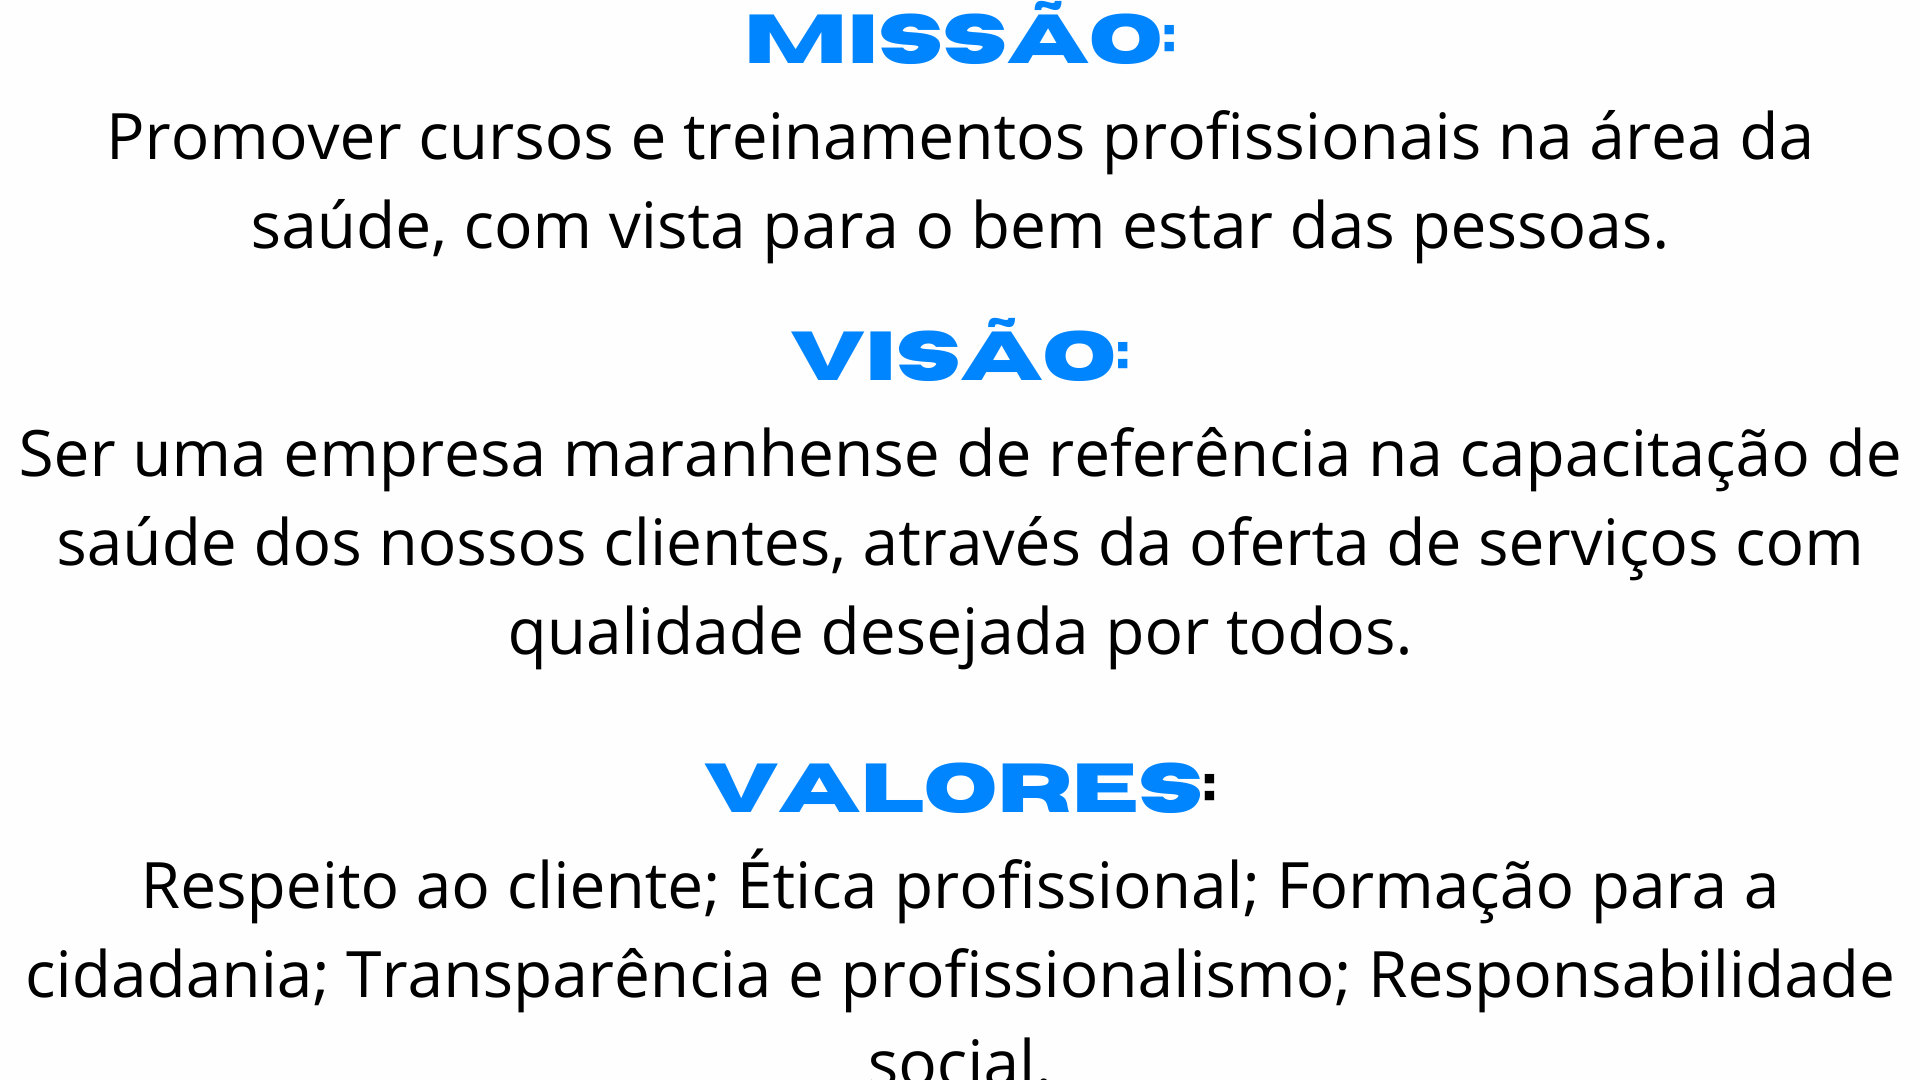
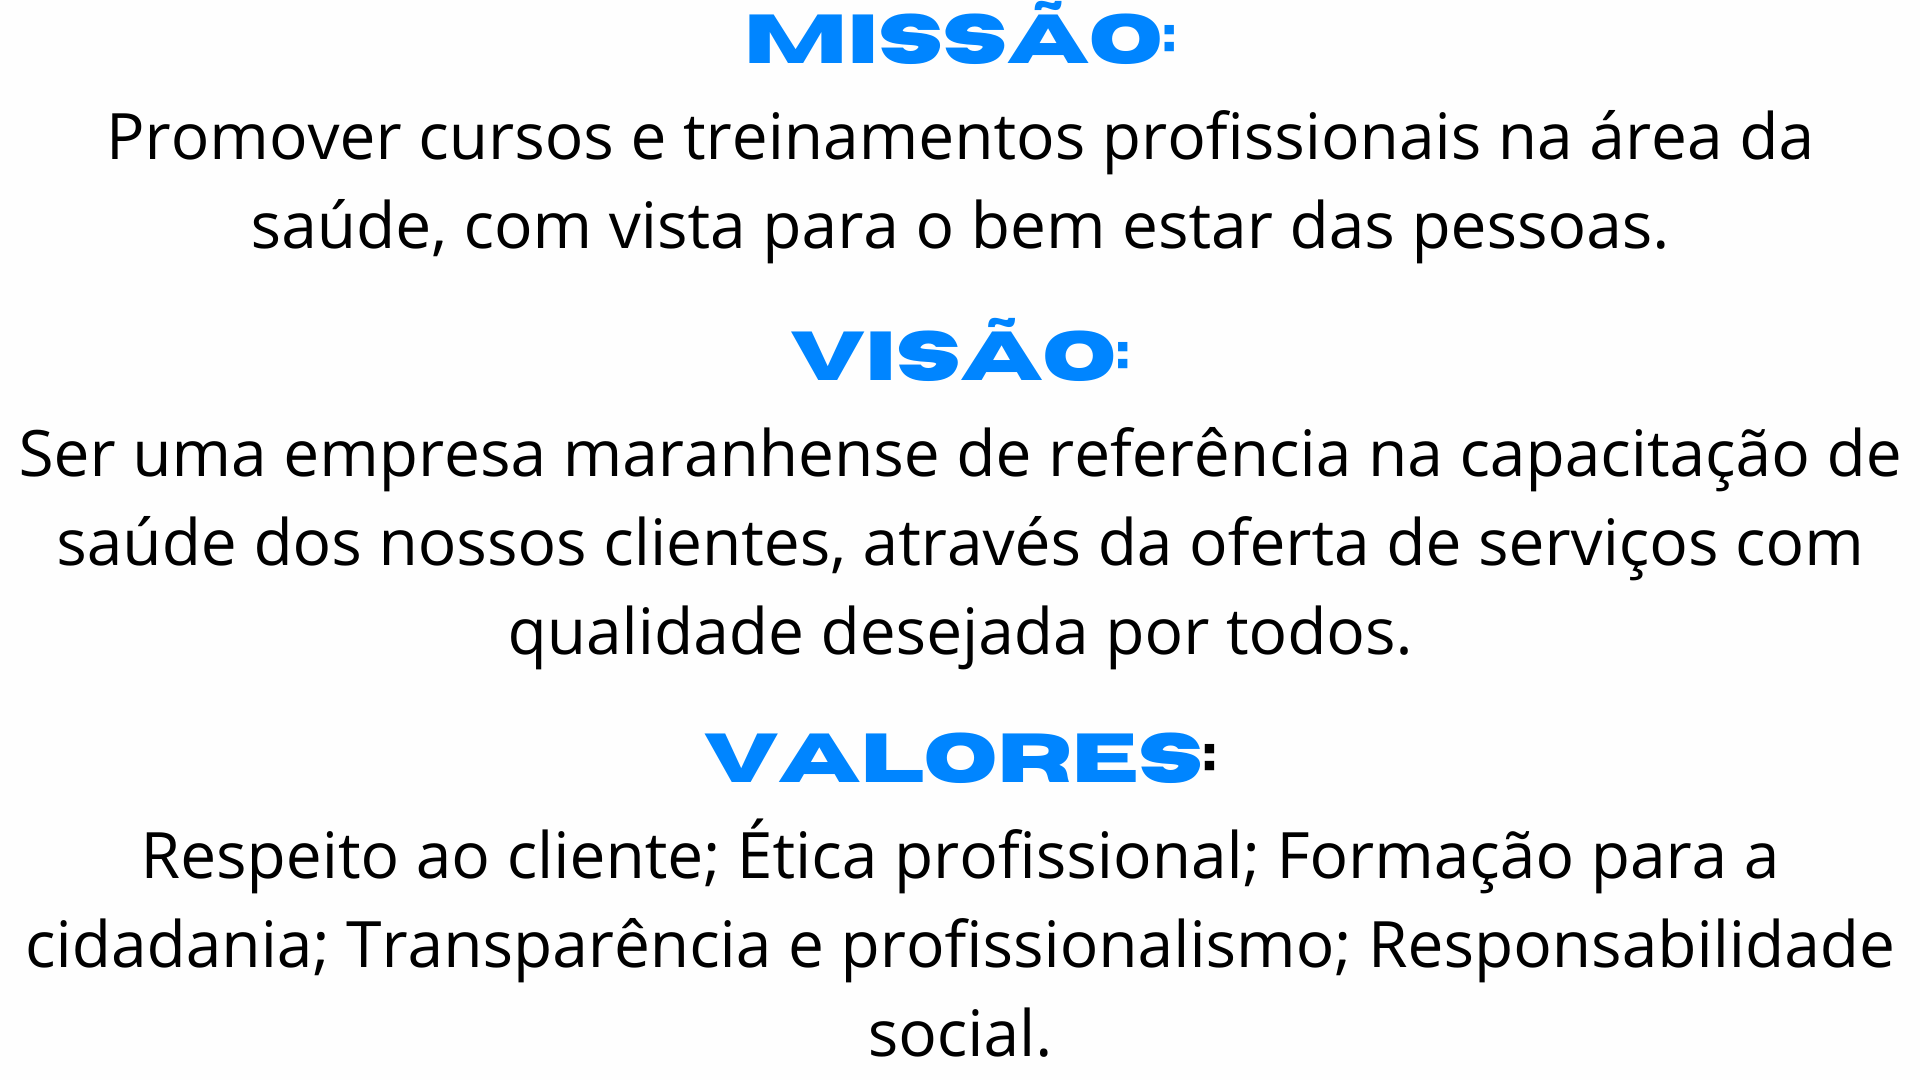
alteração de imagem e texto

Changed region(s): [[0.0, 0.6722, 1.0, 1.0]]

diff --git a/index.html b/index.html
@@ -18,6 +18,7 @@
         </label>
         <label>
             <a style="background:none;" id="logo" href=""><img src="logo.jpg"></a>
+            <p>Educa+</p>
         </label>
         <ul class="h1">    
             <li><a href="#inftxt">SOBRE</a></li>      
@@ -35,19 +36,9 @@
             os processos de imunização utilizados na prevenção do COVID 19. 
         </p>
         <img src="estudanteMascara.jpg">
-        <img src="missão e valor.jpg">
+        <img src="missão e valor.png">
         <div id="infval">
-            <p style="margin: 0 10px 0 15px;">
-                <span style="color: blue;font-weight: bold;">Missão</span>:<br>
-                Promover cursos e treinamentos profissionais na área da saúde, com vista para o bem estar
-                das pessoas.<br>
-                <span style="color: blue;font-weight: bold;">Visão</span>:<br>
-                Ser uma empresa maranhense de referência na capacitação de saúde dos nossos clientes, através
-                da oferta de serviços com qualidade desejada por todos.<br>
-                <span style="color: blue;font-weight: bold;">Valores</span>:<br>
-                Respeito ao cliente; Ética profissional; Formação para a cidadania; Transparência e profissionalismo;
-                Responsabilidade social.
-            </p>
+            <img src="valores, missoes e visao.png" alt="Valores da empresa">
         </div>
        
     </div>

diff --git a/pagebody.css b/pagebody.css
@@ -24,7 +24,7 @@
 /** BANNER DO SITE **/
 
 header{
-    height: 500px;
+    height: 600px;
     background-image: url(./Banner\ refeito.png);
     background-repeat: no-repeat;
     background-size: cover;  
@@ -125,18 +125,22 @@ footer img{
 
 footer p{
     text-align: center;
-    font-size: 10pt;
+    font-size: 9pt;
     color: white;
     font-weight: bold;
 }
 footer h4{
     text-align: center;
-    font-size: 13pt;
+    font-size: 9pt;
     color: white;
 }
 
 /** RESPONSIVIDADE DO SITE **/
-
+@media (max-width:1366px) {
+    height{
+        height: 600px;
+    }
+}
 @media (max-width: 1098px) {
     header{
         height: 400px;
@@ -261,6 +265,9 @@ footer h4{
     }
     .contbtn #formbtn button a{
         font-size: 8.5px;
+    }
+    #infval img{
+        width: 300px;
     }
     
 }

diff --git a/navbar.css b/navbar.css
@@ -6,9 +6,17 @@ nav{
     margin-bottom: 48px;
 }
 label img{
-    width: 56px;
+    width: 53px;
     border-radius: 100%;
     margin-left: 5px;
+    line-height: 60px;
+}
+label p{
+    display: inline-block;
+    color: white;
+    font-weight: bolder;
+    font-size: 30px;
+    line-height: 60px;
 }
 nav ul{
     float: right;
